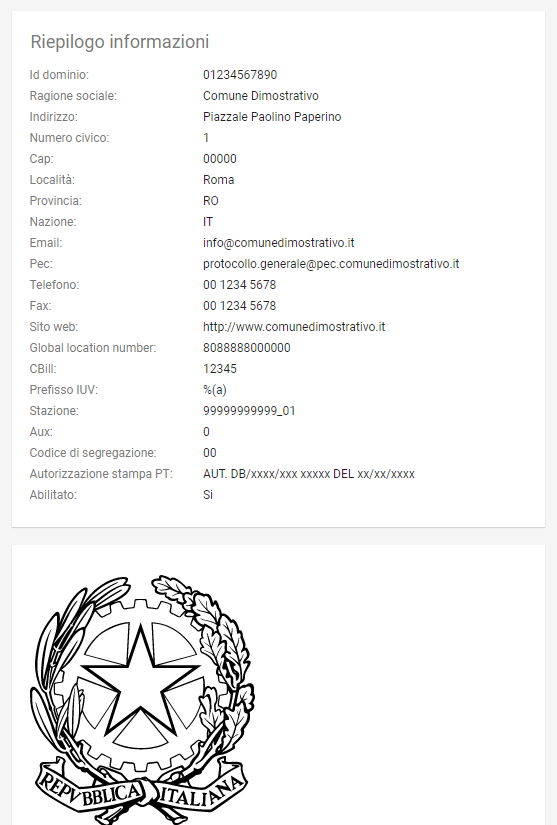
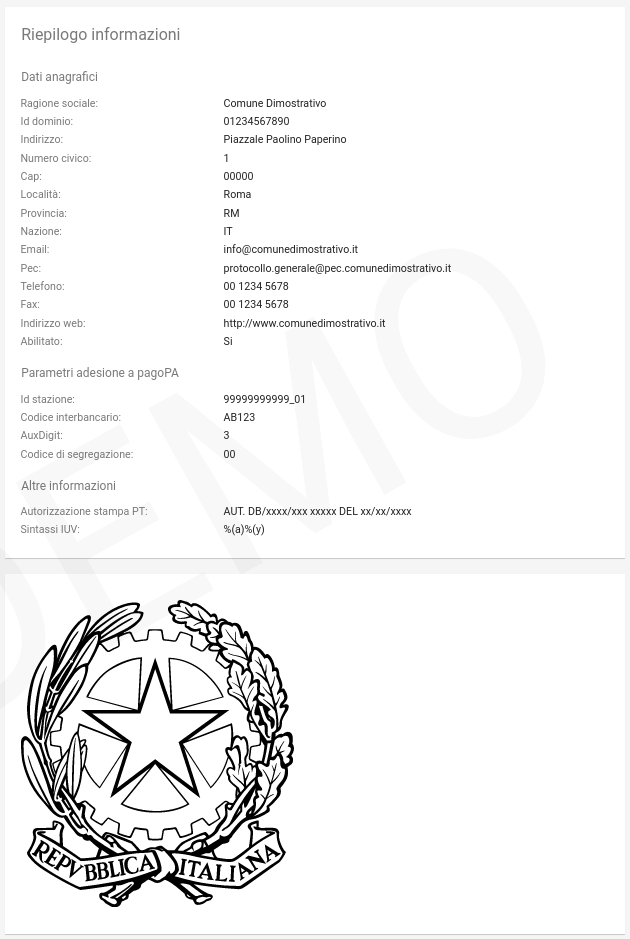
Aggiornata documentazione dell'anagrafica dominio e approfondita la configurazione del caricamento da operatore delle pendenze

Changed region(s): [[0.0305, 0.6364, 0.4883, 1.0], [0.0305, 0.0303, 0.6104, 0.6061], [0.3357, 0.1818, 0.8241, 0.6061]]

diff --git a/docs/cruscotto/configurazione/enti/index.rst b/docs/cruscotto/configurazione/enti/index.rst
@@ -3,7 +3,13 @@
 Enti Creditori
 --------------
 
-Ogni Ente Creditore su pagoPA va registrato nell'anagrafica di GovPay.
+L'adesione di un Ente Creditore alla piattaforma deve essere preliminarmente essere eseguita
+sui sistemi pagoPA tramite il Portale delle Adesioni:
+
+ #. Il Referente dei Pagamenti (RP) aggiunge una nuova connessione intermediata all'Ente Creditore individuando il Partner/Intermediario
+ #. Il Referente Tecnico del Partner/Intermediario associa l'Ente Creditore alla stazione, individuando il codice di segregazione.
+  
+Eseguita questa procedura, si può perfezionare la configurazione in GovPay per abilitare l'intermediazione.
 
 Accedendo alla sezione *Configurazioni > Enti Creditori*, viene visualizzato l'elenco degli enti già censiti. Sul lato sinistro è presente il form per filtrare i domini visualizzati in elenco, con i possibili parametri di ricerca, ovvero:
 
@@ -12,8 +18,6 @@ Accedendo alla sezione *Configurazioni > Enti Creditori*, viene visualizzato l'e
 
    Parametri di filtro per la ricerca di un Ente Creditore
 
-
-Ciascun Ente Creditore presente in elenco è identificato tramite denominazione e codice identificativo.
 
 Nuovo Ente Creditore
 ~~~~~~~~~~~~~~~~~~~~
@@ -26,32 +30,39 @@ Utilizzando il pulsante di creazione, presente in basso a destra nella pagina di
 
    Campi del form di inserimento Nuovo Ente Creditore
 
-.. csv-table:: Dettagli di un Nuovo Ente Creditore
-   :header: "Campo", "Significato", "Note"
-   :widths: 40,40,20
+.. csv-table:: Dati Anagrafici
+   :header: "Campo", "Descrizione"
+   :widths: 30,60
 
-   "Id Dominio", "Identificativo del dominio, fornito da AgID, corrisponde alla Partita Iva dell'ente", "Obbligatorio"
-   "Ragione Sociale", "Ragione sociale del dominio", "Obbligatorio"
-   "Area", "Identificativo interno dell'Area", ""
-   "GLN (Global Location Number)", "Identificativo del dominio nella codifica standard GS1. Obbligatorio, fornito da AgIDD", ""
-   "Intermediario", "Intermediario selezionato", "Obbligatorio"
-   "Stazione", "Stazione tecnologica scelta in fase di adesione a pagoPA, deve ovviamente essere stata già censita sul sistema", "Obbligatorio"
-   "Riferimenti anagrafici del Dominio", "Riferimenti anagrafici del dominio forniti dal Referente dei Pagamenti: Indirizzo (Indirizzo completo di toponimo), Numero Civico, CAP, Località, Provincia, Nazione (condice di due lettere, IT per Itaia), eMail, PEC, Sito web, Telefono, Fax", ""
-   "CBILL", "Codice CBILL per i domini che supportano questa modalità di pagamento, attribuito da PagoPA", ""
-   "Prefisso IUV", "Prefisso da inserire negli IUV generati da GovPay per questo dominio. Il prefisso, numerico, può contenere dei placeholder racchiusi tra graffe", ""
-   "Aux", "Valore numerico che definisce la struttura del codice IUV in funzione del numero di punti di generazione dello stesso (cfr. *Specifiche Attuative dei codici identificativi di versamento, riversamento e rendicontazione*)", ""
-   "Codice di segregazione", "Se configurato come dominio pluri-intermediato, imposta il codice numerico di segregazione.", "Fornito da AgID"
+   "Id Dominio", "Identificativo dell'Ente Creditore in pagoPA, corrisponde al Codice Fiscale dell'ente"
+   "Altre informazioni anagrafiche", "Dovrebbero corrispondere a quanto indicato nell'IndicePA"
    "Abilitato", "Indica se il dominio è usabile da GovPay per gestire nuovi pagamenti (abilitato) o se si vogliono impedire nuove richieste (disabilitato)", ""
-   "Autorizzazione stampa PT", "Numero di autorizzazione PT per la stampa in proprio del bollettino postale", ""
-   "Sfoglia.. (Logo)", "Elemento per il caricamento del logo dell’ente creditore corrispondente al dominio", ""
 
+.. csv-table:: Parametri adesione pagoPA
+   :header: "Campo", "Descrizione"
+   :widths: 30,60
+   
+   "Intermediario", "Intermediario o Partner di integrazione a pagoPA"
+   "Stazione", "Stazione di intermediazione a pagoPA"
+   "Codice interbancario", "Codice CBILL assegnato da pagoPA"
+   "Aux Digit", "Come individuato in sede di associazione alla stazione sul Portale delle Adesioni"
+   "Codice di segregazione", "Come individuato in sede di associazione alla stazione sul Portale delle Adesioni"
+   
+.. csv-table:: Altre informazioni
+   :header: "Campo", "Descrizione"
+   :widths: 30,60
+   
+   "Autorizzazione stampa BT", "Autorizzazione alla stampa in proprio assegnata da Poste Italiane"
+   "Sintassi IUV", "Prefisso degli IUV generati da GovPay per questo dominio. Il prefisso, numerico, può contenere dei placeholder indicati successivamente"
+   "Sfoglia...", "Araldo dell'Ente Creditore da apporre nelle stampe di avvisi o ricevute. Preferibilmente vettoriale monocromatico"   
+      
 I **placeholder contenuti nel prefisso IUV** vengono sostituiti a runtime con i valori forniti dagli applicativi richiedenti o con i valori di sistema configurati. La lunghezza del prefisso riduce lo spazio di IUV generabili, quindi è necessario che sia il più breve possibile.
 I seguenti sono i placeholder di sistema, sovrascrivibili dall'applicazione chiamante:
 
-* a: codice IUV assegnato all'applicazione che gestisce il debito
-* t: codice IUV assegnato al tributo
-* y: anno di emissione dello IUV, due cifre
-* Y: anno di emissione dello IUV, quattro cifre
+* %(a): codifica dell'applicazione
+* %(p): codifica del tipo pendenza
+* %(y): anno di emissione dello IUV, due cifre
+* %(Y): anno di emissione dello IUV, quattro cifre
 
 Dettaglio Ente Creditore
 ~~~~~~~~~~~~~~~~~~~~~~~~
@@ -60,13 +71,14 @@ Selezionando uno degli enti creditori presenti nella pagina di elenco si accede 
 
 .. csv-table:: Aree del dettaglio Ente Creditore
    :header: "Area", "Descrizione"
-   :widths: 40,40
+   :widths: 30,60
 
    "*Riepilogo Informazioni*", "Dati che caratterizzano l'ente creditore, appena visti nella sezione `Nuovo Ente Creditore`_"
    "*Unità Operative*", "Uffici di gestione dei pagamenti in cui è suddiviso il dominio dell’ente creditore."
-   "*Iban*", "Codici IBAN dei conti correnti su cui l’ente creditore riceve gli accrediti in banca tesoriera. Tali IBAN sono quelli già comunicati ad AgID in fase di accreditamento."
-   "*Entrate*", "Sono le entrate attive nel dominio dell’ente creditore e quindi sulle quali è predisposto per ricevere dei pagamenti."
-   "*Pendenze*", "Sono le entrate attive nel dominio dell’ente creditore e quindi sulle quali è predisposto per ricevere dei pagamenti."
+   "*Iban*", "Conti di accredito utilizzati dall'Ente Creditore in pagoPA."
+   "*Tipi Entrata*", "Anagrafica delle entrate, riferibili dalle voci pendenza delle posizioni."
+   "*Tipi Pendenza*", "Anagrafica delle tipologie di pendenza."
+   "*Connettori*", "Configurazione dei connettori di esportazione dati."
 
 Tramite il pulsante di modifica presente nella pagina di dettaglio è possibile procedere con l'aggiornamento dei dati di base, visualizzati nell'area "Riepilogo Informazioni". Si tenga presente che il **valore del campo “Codice Dominio” non è modificabile**.
 
@@ -75,14 +87,6 @@ Tramite il pulsante di modifica presente nella pagina di dettaglio è possibile 
    :name: CampiDelDettaglioDominio
 
    Campi del dettaglio dell'Ente Creditore
-
-Le aree seguenti contengono i relativi pulsanti di creazione e modifica dei rispettivi elementi, con le solite, naturali, uniformi convenzioni grafiche.
-
-.. figure:: ../../_images/20DettaglioDominio2.png
-   :align: center
-   :name: CampiDegliOggettiDiEnteCreditore
-
-   Campi degli oggetti correlati all'Ente Creditore
 
 
 Unità Operative
@@ -111,7 +115,7 @@ Ovviamente dall'elenco delle unità operative associate a un Ente Creditore, è 
 Iban
 ^^^^
 
-Gli iban utilizzati per l'accredito degli importi versati vanno censiti su GovPay. Esiste quindi una maschera di definizione degli IBAN associati all'Ente Creditore.
+Gli iban utilizzati per l'accredito degli importi versati devono essere censiti su GovPay:
 
 .. figure:: ../../_images/22NuovoIBAN.png
    :align: center
@@ -119,26 +123,28 @@ Gli iban utilizzati per l'accredito degli importi versati vanno censiti su GovPa
 
    Maschera di creazione IBAN associato all'Ente Creditore
 
-Il form di creazione di un Iban deve essere compilato con i dati
-seguenti:
+Il form di creazione di un Iban deve essere compilato con i dati seguenti:
 
 .. csv-table:: Dettagli di un nuovo IBAN
    :header: "Campo", "Significato", "Note"
    :widths: 40,40,20
 
-   "IBAN Accredito", "Codice IBAN del conto di accredito", "Obbligatorio, fornito dal referente dei Pagamenti"
-   "BIC Accredito", "BIC del conto di accredito", "Obbligatorio"
-   "Postale", "Indica se l'iban di accredito è riferito ad un conto corrente postale", ""
-   "My Bank", "Indica se l'iban di accredito è è abilitato alle transazioni MyBank", ""
-   "Abilitato", "Indica se l'IBAN  è abilitato o meno nel contesto del dominio su cui si opera", ""
+   "IBAN Accredito", "Codice IBAN del conto di accredito"
+   "BIC Accredito", "BIC del conto di accredito"
+   "Descrizione", "Descrizione del conto per una più agevole ricerca"
+   "Intestatario del conto", "Visualizzato se postale, valorizza l'omonimo campo nel bollettino postale."
+   "Autorizzazione stampa PT", "Visualizzato se postale, consente di sovrascrivere il valore nel dettaglio dell'Ente Creditore."
+   "Postale", "Indica se l'iban è riferito ad un conto corrente postale"
+   "Abilitato", "Indica se l'IBAN  è abilitato o meno"
 
-Tornando all'elenco degli Iban, è possibile scegliere le operazioni di modifica degli elementi precedentemente creati. Il campo
-Iban Accredito non è, ovviamente, modificabile.
+Tornando all'elenco degli Iban, è possibile scegliere le operazioni di modifica degli elementi precedentemente creati.
 
-Entrate
-^^^^^^^
+Tipi entrata
+^^^^^^^^^^^^
 
-Ogni importo che costituisce un versamento deve essere associato ad una entrata censita sul sistema. L'entrata associata al versamento ne determina l'iban di accredito dell'importo e le coordinate di rendicontazione.
+Nella definizione di una pendenza è possibile specificare fino a 5 voi di importo, ciascuna con i dati di contablità e 
+conto di accredito. Queste informazioni possono essere fornite esplicitamente nella pendenza dall'applicativo chiamante
+oppure riferire un codice Entrata che individua un Tipo Entrata in questa anagrafica dove si possono configurare questi dati.
 
 .. note:: **Si noti come la gestione delle Entrate sia stata sostituita da quella delle Pendenze, assai più flessibile e con in più la possibilità di generazione automatica delle interfacce per la riscossione: ciò semplifica grandemente l'implementazione effettiva di queste modalità di pagamento verso l'Utente finale, fornendogli al contempo un'interfaccia omogenea e consistente. Si decide di lasciare questa tipologia di oggetti per meri scopi di ereditarietà. Le nuove configurazioni dovrebbero pertanto utilizzare la Gestione delle Pendenze.**
 
@@ -152,10 +158,10 @@ Ogni importo che costituisce un versamento deve essere associato ad una entrata 
 Il form di creazione di un'entrata va compilato con le seguenti informazioni:
 
 .. csv-table:: Dettagli di una nuova entrata
-   :header: "Campo", "Significato", "Note"
-   :widths: 40,40,20
+   :header: "Campo", "Descrizione"
+   :widths: 40,60
 
-   "Tipo entrata", "Selezione tra le tipologie già censite", "Se non risulta presente la voce desiderata, selezionare *Nuova Entrata*
+   "Tipo entrata", "Selezione tra le tipologie già censite. Se non risulta presente la voce desiderata, selezionare *Nuova Entrata*
       -  Id Entrata: identificativo dell'entrata.
       -  Descrizione: testo di descrizione dell'entrata per facilitarne
          il riconoscimento agli operatori. Obbligatorio, a discrezione
@@ -168,53 +174,55 @@ Il form di creazione di un'entrata va compilato con le seguenti informazioni:
          fornito dalla segreteria.
       -  *Codifica IUV*: codifica dell'entrata nel contesto degli IUV
          generati da GovPay, se configurato in tal senso."
-   "IBAN Accredito", "IBAN di accredito del tributo a scelta tra quelli censiti per il dominio", "Obbligatorio"
-   "IBAN Appoggio", "utilizzato nelle situazioni in cui il PSP non è in condizioni di accreditare somme sul conto di accredito (si considerino le limitazioni in essere nel circuito postale)", ""
-   "Tipo contabilità", "Se valorizzato sovrascive l'mpostazione prevista nel default per l'entrata cui si fa riferimento", ""
-   "Codice contabilità", "Se valorizzato sovrascive l'mpostazione prevista nel default per l'entrata cui si fa riferimento", ""
-   "Abilitato", "Indica se l'Entrata è abilitata o meno nel contesto del dominio su cui si opera", ""
+   "IBAN Accredito", "IBAN di accredito del tributo a scelta tra quelli censiti per il dominio"
+   "IBAN Appoggio", "utilizzato nelle situazioni in cui il PSP non è in condizioni di accreditare somme sul conto di accredito (si considerino le limitazioni in essere nel circuito postale)"
+   "Tipo contabilità", "Se valorizzato sovrascive l'mpostazione prevista nel default per l'entrata cui si fa riferimento"
+   "Codice contabilità", "Se valorizzato sovrascive l'mpostazione prevista nel default per l'entrata cui si fa riferimento"
+   "Abilitato", "Indica se l'Entrata è abilitata o meno nel contesto del dominio su cui si opera"
 
 .. note:: I campi *Tipo Contabilità e Codice Contabilità* rappresentano i valori di default per il tipo entrata e saranno attualizzabili nel contesto di ciascun Ente Creditore.
 
-Dalla lista delle Entrate rimane sempre possibile modificare la singola Entrata, con il campo *Codice Entrata* non modificabile. Fa eccezione l'entrata preconfigurata “Marca da Bollo Telematica” per la quale si ha la sola possibilità di modificare i parametri di contabilizzazione.
+Dalla lista delle Entrate rimane sempre possibile modificare la singola Entrata. Fa eccezione l'entrata preconfigurata “Marca da Bollo Telematica” per la quale si ha la sola possibilità di modificare i parametri di contabilizzazione.
 
 
-Pendenze
-^^^^^^^^
+Tipi pendenze
+^^^^^^^^^^^^^
 
-Questa sezione permette la scelta e la personalizzazione delle pendenze (ovvero oggetti che vanno riconciliati con i pagamenti) ammissibili per l'Ente Creditore in essere. Si noti come le pendenze possano essere associate all'Ente selezionandole da quelle censite (l'aggiunta di un nuovo tipo di pendenza viene gestita nella funzionalità associata alla voce `Tipi Pendenze`_ del menu sulla sinistra). Il sistema, ovviamente, permette di aggiungere solo le pendenze che, per l'Ente, non siano state già scelte.
-Ad esempio, in un Ente Creditore abbiamo le seguenti tipologie di pendenza già selezionate:
+Questa sezione permette la scelta e la personalizzazione delle tipologie di pendenza ammissibili per l'Ente Creditore tra
+quelle registrate nell'anagrafica dei `Tipi Pendenze`_. Il sistema dà la possibilità, una volta aggiunta una nuova pendenza, 
+di personalizzarla per l'Ente Creditore rispetto alla configurazione di base eventualmente definita nel registro `Tipi Pendenze`_.
 
-.. figure:: ../../_images/25PendenzeSceltePerIlDominio.png
+Associando un Tipo Pendenza ad un Ente Creditore è possibile indicare le seguenti informazioni generali:
+
+.. figure:: ../../_images/30TipoPendenza_RiepilogoInformazioni.png
    :align: center
-   :name: PendenzeRelativeAUnDominio
+   :name: TipoPendenza_RiepilogoInformazioni
+   
+.. csv-table:: Informazioni generali
+   :header: "Campo", "Descrizione"
+   :widths: 40,60   
+   
+   "Tipo pendenza", "Tipologia di pendenza da associare tra quelle registrate nell'omonima anagrafica"
+   "Codifica IUV", "Codice numerico associato alla tipologia pendenze, usato nella generazione degli IUV, se previsto"
+   "Pagabile da terzi", "Indica se la tipologia di pendenza è pagabile anche da soggetti diversi dall'intestatario. Al momento l'informazione non viene utilizzata in nessun controllo."
+   "Abilitato", "Abilita o disabilita l'associazione"
 
-   Pendenze associate a un Ente Creditore
+Le funzioni a valore aggiunto che è possibile configurare sono le seguenti:
 
-A questo punto, sull'Ente Creditore selezionato, si potrà aggiungere una sola pendenza (quella non ancora selezionata), come mostrato:
+.. csv-table:: Servizi aggiuntivi configurabili per tipologie di pendenza
+   :header: "Servizio", "Descrizione"
+   :widths: 40,60
+   
+   "Inserimento pendenza da Operatore","Configura la form per l'inserimento manuale di una pendenza. `:_govpay_configurazione_enti_formoperatore`_"
+   "Pagamento spontanto","Configura la pagina di pagamento spontaneo sul Portale di pagamento GovPay"
+   "Comunicazioni via Mail","Configura il contenuto della messaggistica via mail all'utente finale"
+   "Comunicazioni via AppIO","Configura la messaggistica via AppIO all'utente finale"
+   "Altre funzioni","Consente la configurazioni di altre funzioni di GovPay"
+  
+   
 
-.. figure:: ../../_images/26PendenzaSelezionabile.png
-   :align: center
-   :name: PendenzaSelezionabilePerAggiunta
+.. toctree::
+   :maxdepth: 2
+   :hidden:
 
-   Pendenza selezionabile per aggiunta all'Ente Creditore
-
-Il sistema dà la possibilità, una volta aggiunta una nuova pendenza, di personalizzarla per l'Ente Creditore, consentendo anche la generazione di maschere automatiche per l'immissione dei dati.
-Si tenga presente che si affronterà il dettaglio dei campi delle pendenze nella sezione apposita, cui si fa riferimento. Al momento si noti come una pendenza possa essere completamente personalizzata per un dominio a partire da una *standard* definita nella sezione *`Tipi Pendenze`_*.
-I meccanismi di selezione sono del tutto analoghi a quanto già visto in altri contesti del sistema: selezioniamo la Pendenza *Sanzione Amministrativa*
-
-.. figure:: ../../_images/27SelezioneDellaPendenzaPerModifica.png
-   :align: center
-   :name: SelezionePendenzaSanzioneAmministrativa
-
-   Selezione della Pendenza *Sanzione Amministrativa*
-
-Il sistema mostra la seguente maschera
-
-.. figure:: ../../_images/30ModificaSanzioneAmministrativa.png
-   :align: center
-   :name: ModificaSanzioneAmministrativa
-
-   Modifica *Sanzione Amministrativa*
-
-Da qui possiamo personalizzare **senza modificare le informazioni standard del tipo Sanzione Amministrativa**.
+   ./dovuto      

diff --git a/docs/cruscotto/configurazione/enti/dovuto.rst b/docs/cruscotto/configurazione/enti/dovuto.rst
@@ -1,0 +1,51 @@
+.. _govpay_configurazione_enti_formoperatore:
+
+Configurazione del tipo pendenza per il caricamento manuale da operatore.
+-------------------------------------------------------------------------
+
+E' possibile predisporre delle form personalizzate nella Console di GovPay per consentire l'inserimento
+delle pendenze richiedendo all'operatore un set minimale di informazioni e codificando la logica di 
+creazione della pendenza.
+
+.. figure:: ../../_images/31TipoPendenza_Formcaricamento.png
+   :align: center
+   :name: 31TipoPendenza_Formcaricamento
+
+   Inserimento pendenze da operatore
+
+Form inserimento Dati
+~~~~~~~~~~~~~~~~~~~~~
+
+In questa sezione viene definito il layout della form di acquisizione dei dati necessari all'istruttoria della posizione che 
+saranno poi l'input alla successiva fase di validazione:
+
+.. csv-table:: *Form inserimento Dati*
+   :header: "Campo", "Descrizione"
+   :widths: 40,60
+
+   "Tipo layout", "Indica il motore di interpretazione della definizione della form"
+   "Definizione", "File che definisce la form nel formalismo scelto in `Tipo Layout`"
+
+I tipi di layout al momento disponibili sono i seguenti:
+	
+	-  *Angular json schema form*: `Progetto GitHub <https://github.com/dschnelldavis/angular2-json-schema-form>`_ - `Playground <https://angular2-json-schema-form.firebaseapp.com/>`
+
+
+Validazione
+~~~~~~~~~~~
+
+E' possibile configurare in questa sezione il JSON Schema con cui validare i dati inviati dalla form definita nella sezione precedente. 
+
+Trasformazione dati
+~~~~~~~~~~~~~~~~~~~
+
+In questa sezione può essere configurato il processo che, dai dati inseriti nella form, produce una pendenza. Il dato di Input è il JSON prodotto
+dalla form di inserimento dati, mentre l'output deve essere un JSON che rispetta lo schema di una `PendenzaPost <https://generator.swagger.io/?url=https://raw.githubusercontent.com/link-it/govpay/master/wars/api-backoffice/src/main/webapp/v1/govpay-api-backoffice-v1.yaml#model-pendenzaPost>`
+oppure un JSON compatibile con il successivo servizio di inoltro, se configurato. 
+
+Inoltro
+~~~~~~~
+
+E' possibile inviare i dati ricevuti ed eventualmente trasformati ad una applicazione per il processo di istruttoria. Il JSON ritornato da tale
+servizio deve rispettare lo schema di una `PendenzaPost <https://generator.swagger.io/?url=https://raw.githubusercontent.com/link-it/govpay/master/wars/api-backoffice/src/main/webapp/v1/govpay-api-backoffice-v1.yaml#model-pendenzaPost>`
+

diff --git a/docs/cruscotto/conduzione/manutenzione/index.rst b/docs/cruscotto/conduzione/manutenzione/index.rst
@@ -4,17 +4,18 @@ Manutenzione
 ============
 
 Accedendo alla sezione *Manutenzione* si ha la possibilità di effettuare
-in modalità immediata alcune operazioni solitamente effettuate in
+in modalità immediata le operazioni solitamente effettuate in
 modalità temporizzata dagli schedulatori interni di GovPay.
 
 Le operazioni disponibili sono:
 
--  *Acquisisci Rendicontazioni*: avvia il processo di acquisizione dei
-   flussi di rendicontazione.
--  *Recupera pagamenti*: forza il processo di aggiornamento dei
-   pagamenti per i quali non è stata ancora acquisita la ricevuta
-   telematica.
-
-.. note::
-    Le credenziali per il primo accesso sono state scelte durante la
-    procedura di installazione.
+-  *Acquisisci Rendicontazioni*: avvia manualmente il processo di acquisizione dei
+   flussi di rendicontazione. Il processo è normalmente eseguito automaticamente ogni 
+   quattro ore. 
+-  *Recupera pagamenti*: avvia manualmente il processo di recupero dei
+   pagamenti per i quali non è stata acquisita la ricevuta
+   telematica nei tempi consueti. Il processo viene normalmente eseguito automaticamente
+   ogni ora. 
+-  *Resetta la cache*: svuota la cache delle configurazioni per rendere immediatamente
+   operative le eventuali modifiche effettuate dall'operatore. La cache viene normalmente
+   svuotata ogni ora. 

diff --git a/docs/cruscotto/conduzione/index.rst b/docs/cruscotto/conduzione/index.rst
@@ -11,11 +11,11 @@ Le attività supportate per la fase di conduzione comprendono le operazioni di m
         :caption: Argomenti trattati:
         :maxdepth: 2
 
+        cruscotto/index
         pendenze/index
         pagamenti/index
-        cruscotto/index
+        riconciliazioni/index
         giornale/index
         avanzate/index
-        riconciliazioni/index
         manutenzione/index
-        appendici/index
+        impostazioni/index

diff --git a/docs/cruscotto/conduzione/impostazioni/index.rst b/docs/cruscotto/conduzione/impostazioni/index.rst
@@ -1,0 +1,6 @@
+.. _utente_impostazioni:
+
+Impostazioni
+============
+
+TBD
